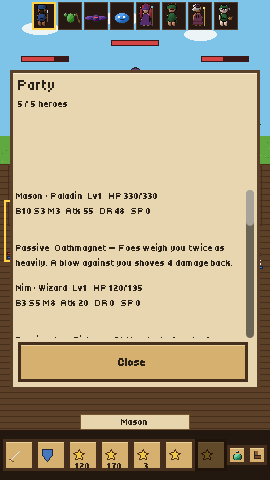
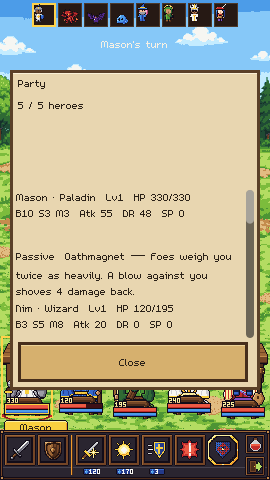
Ship v0.2.0 docs and production-art screenshots.
The README credits m5x7, points at the v0.2.0 APK, and shows the creator, map, and combat card captured from the sprite pack.

diff --git a/README.md b/README.md
@@ -2,7 +2,7 @@
 
 A portrait, tabletop-framed pixel RPG. Phase 0 is a playable phone slice: recruit one to five heroes, walk a vertical region map, and fight at the table.
 
-The native viewport is **270×480**, integer-scaled with nearest-neighbor filtering. Screen positions live in [`data/layout.json`](data/layout.json). A `landscape` block is reserved there so a desktop layout can be added later without rewriting the screens. Sprite paths and doll anchors live in [`scripts/core/sprite_catalog.gd`](scripts/core/sprite_catalog.gd).
+The native viewport is **270×480**, integer-scaled with nearest-neighbor filtering. Screen positions live in [`data/layout.json`](data/layout.json). A `landscape` block is reserved there so a desktop layout can be added later without rewriting the screens. Production sprites live in [`art_source/phase0`](art_source/phase0) and are loaded by [`scripts/core/art_pack.gd`](scripts/core/art_pack.gd). The UI font is [m5x7](https://managore.itch.io/m5x7) by Daniel Linssen, CC0, at size 16 so it sits on the native grid.
 
 Names, dialogue, and art in this repository are original. Combat math and the timing table follow the project's design breakdown.
 
@@ -32,11 +32,13 @@ godot --headless --path . -s res://tests/run_tests.gd
 
 That covers the stat, HP, energy, damage, crit, XP, gold, travel-table, dice, timing, path, portrait-layout, party seats, skill-button states, the arm-then-cast inspect card, cooldown, HP-cost, build-up, mana regen, threat raffle, and on-hit passive examples.
 
-Placeholder art is generated with `python3 tools/gen_art.py`.
+The older files under `art/` are still generated with `python3 tools/gen_art.py` and stay in the repo for the title backdrop and the file checks. The creator, map, and combat screens use the production pack.
 
 ## Screenshots
 
-Native 270×480 captures:
+Native 270×480 captures of the production art:
+
+![Combat, skill card open](docs/screenshots/skills.png)
 
 ![Character creator](docs/screenshots/creator.png)
 
@@ -53,12 +55,12 @@ Native 270×480 captures:
 [`export_presets.cfg`](export_presets.cfg) has a debug Android preset locked to portrait (`screen/orientation=1`) and arm64-v8a, plus a Linux preset. The project setting `display/window/handheld/orientation` is portrait.
 
 ```bash
-godot --headless --export-debug Android build/paladins-0.1.0-debug.apk
+godot --headless --export-debug Android build/paladins-0.2.0-debug.apk
 ```
 
 The export needs the Godot 4.7.2 Android templates (installed into `android/build`, which is gitignored), a `.build_version` of `4.7.2.stable`, Android SDK 36, build-tools 36.1.0, NDK 29.0.14206865, and a JDK. The project enables ETC2/ASTC import, which the Android exporter requires.
 
-The published debug APK is [v0.1.0](https://github.com/thegliffy/paladins-of-pen-and-paper/releases/tag/v0.1.0): [paladins-0.1.0-debug.apk](https://github.com/thegliffy/paladins-of-pen-and-paper/releases/download/v0.1.0/paladins-0.1.0-debug.apk). It is arm64-v8a, portrait, package `com.thegliffy.paladinspenpaper`. That build is the portrait slice from before the eight-class list, passives, the threat raffle, the party of five, and the per-hero action bar. Export again with the command above to include those.
+The published debug APK is [v0.2.0](https://github.com/thegliffy/paladins-of-pen-and-paper/releases/tag/v0.2.0): [paladins-0.2.0-debug.apk](https://github.com/thegliffy/paladins-of-pen-and-paper/releases/download/v0.2.0/paladins-0.2.0-debug.apk). It is arm64-v8a, portrait, package `com.thegliffy.paladinspenpaper`, and includes the eight classes, passives, the threat raffle, the party of five, inspect-to-cast, and the production sprites. v0.1.0 is the earlier portrait slice and is left as-is.
 
 ## Where numbers live
 
@@ -90,13 +92,13 @@ A level 1 hero is `class + persona + race + 2` on Body, Senses, and Mind. HP is 
 - Level 1 monsters use the level-1 HP exception (the formula divided by 3), so the pond fight is short.
 - Skill ranks use the energy-cost formula on **mana** skills only. Cooldowns, free actions, HP costs, and build-up tracks (Rogue combo, Bard tempo, Barbarian rage) do not go through that formula. Damage and healing add a small per-rank term. There is no separate power-curve table yet.
 - Each class has one passive besides its actives. Monsters raffle a living member by threat. Threat is class base plus Body and a little of damage reduction, then taunt and a passive multiplier, and it never drops below 1. Cover halves it. The Wizard regains a share of max energy at the start of each of their turns. Other passives cover crits, healing, initiative, a party damage-reduction aura, health regen, a flat on-hit cut, and damage that rises as health falls. Set `debug` in `data/threat.json` to show each member's threat percent on their chair.
-- Cleric, Rogue, Barbarian, and Druid outfits are placeholder pixels until production sprites arrive.
+- Monster pictures use the pack's eight bodies. Puddleblob is the slime, Thicket Imp the imp, Cinder Mite a goblin, Briar Hound the wolf, Lantern Wisp a mushroom, Marshlurker a skeleton, Cave Howler the bat, and Gravel Brute the golem. Map nodes use the village, windmill, tavern, shrine, cave, and castle pictures.
 - No terrain effects, so the 1.5 s terrain intro does not play.
 - No counter-attack skills. The counter delays are still in the timing constants and the tests.
 - The bard's second skill applies **poison**, not weakness.
 - A wild rest that fails every Senses die is interrupted by an ambush and does not heal first.
 - A wipe revives the party to about a quarter of their health and charges the resurrect cost when the purse can pay, so the slice cannot soft-lock.
 - Audio is generated tones. There is no music.
-- Art is placeholder pixel work. Production sprites can replace the files named in `SpriteCatalog` without moving anchors.
+- Combat, the creator, and the map use the production sprite pack. The title screen still uses the meadow backdrop from `art/`.
 
-A basic attack's waits are 0.25 s wind-up, 0.20 s to the hit, and a 0.50 s HP tween (0.95 s). Punch and the red blink run inside that tween. On the machine that captured the screenshots, one measured attack completed in 818 ms, inside the 0.8–1.2 s gate.
+A basic attack's waits are 0.25 s wind-up, 0.20 s to the hit, and a 0.50 s HP tween (0.95 s). Punch and the red blink run inside that tween. On the machine that captured the screenshots, one measured attack completed in 806 ms, inside the 0.8–1.2 s gate.

diff --git a/docs/CLASSES.md b/docs/CLASSES.md
@@ -2,7 +2,7 @@
 
 Eight classes. A party seats one to five heroes, and each class once. Every class has five skills that nobody else uses: three or four actives and one or two passives. Body, Senses, and Mind from the class add up to 6, then persona, race, and the +2 base still apply.
 
-Actives are the Skill buttons. Passives are always on. They are tagged Passive in the creator and on the party panel, and they never appear in the Skill list.
+Actives are the Skill buttons. Passives are always on. They are tagged Passive in the creator and on the party panel. The action bar still draws each passive in the octagon frame (`skill_slot_passive`); that slot opens the card and does not cast.
 
 Mana skills use the energy formula `round((base + rank × 20) × (1 + reduction))`. The button shows that rank-1 cost. Cooldown skills arm on use and tick down by 1 at the start of each of your later turns, including a turn you spend stunned. A cooldown of 3 is ready again on the turn it reaches 0. An HP cost is payable only when it would leave at least 1 health. Build-up skills add points up to a cap, and the spender refuses the action until you have the cost.
 
@@ -90,3 +90,50 @@ A Paladin with Body 8, no armor, and Oathmagnet is `round((16 + 16) × 2) = 64`.
 | Druid | Sap Pulse | Passive | Turn start | Always on | Self | Regain 5% of max health at the start of each of your turns. |
 
 Spell and heal amounts above are the rank-1 base before Mind, Senses, and extra ranks. Ranks above 1 add the per-rank term in the skill data. Conditions use the same save, timer, and damage rules as the rest of combat: burn ticks health, poison drains energy first, stun skips the turn.
+
+## Skill icons
+
+Icons are `art_source/phase0/ui/skills/<file>.png`. The number is the Art Director's slot, not the order on the bar. Every passive uses the octagon frame even when the painted icon was an active motif.
+
+| Class | Skill | Icon | Notes |
+| --- | --- | --- | --- |
+| Paladin | Oathstrike | paladin_1 | Sword of light |
+| Paladin | Shieldwall | paladin_2 | Shield |
+| Paladin | Hearthmend | paladin_3 | Holy aura |
+| Paladin | Rallying Brand | paladin_4 | Shout |
+| Paladin | Oathmagnet | paladin_5 | Guardian mark. Passive frame |
+| Wizard | Emberburst | wizard_1 | Fireball |
+| Wizard | Frostpin | wizard_2 | Ice |
+| Wizard | Cinder Needle | wizard_3 | Lightning. No needle was drawn |
+| Wizard | Stillglass | wizard_4 | Arcane ward |
+| Wizard | Ley Siphon | wizard_5 | Mana flow. Passive frame |
+| Ranger | Marked Shot | ranger_1 | Arrow |
+| Ranger | Thorn Volley | ranger_2 | Multi-shot |
+| Ranger | Snare Trap | ranger_3 | Trap |
+| Ranger | Quick Draw | ranger_4 | Paw. No quick-draw icon was drawn |
+| Ranger | First Mark | ranger_5 | Keen eye. Passive frame |
+| Bard | Dissonant Chord | bard_1 | Damage note |
+| Bard | Mending Verse | bard_2 | Song |
+| Bard | Hearth Chorus | bard_3 | Lullaby. Passive frame. Every bard icon was painted as an active |
+| Bard | Downbeat | bard_4 | Lute |
+| Bard | Crescendo | bard_5 | War drum |
+| Cleric | Lantern Prayer | cleric_1 | Green cross |
+| Cleric | Warding Light | cleric_2 | Holy cross |
+| Cleric | Purge Hymn | cleric_3 | Cleanse |
+| Cleric | Spark of Mercy | cleric_4 | Hammer. No small-heal icon was drawn |
+| Cleric | Open Hands | cleric_5 | Haloed heart. Passive frame |
+| Rogue | Pocket Cut | rogue_1 | Dagger |
+| Rogue | Venom Needle | rogue_2 | Poison vial |
+| Rogue | Kidney Nick | rogue_3 | Smoke |
+| Rogue | Ledger Strike | rogue_4 | Backstab |
+| Rogue | Keen Nick | rogue_5 | Pickpocket. Passive frame |
+| Barbarian | Bloodswing | barbarian_1 | Axe |
+| Barbarian | Rage Crash | barbarian_2 | Rage flame |
+| Barbarian | Roar | barbarian_3 | Horn |
+| Barbarian | Thick Hide | barbarian_4 | Stomp. No hide icon was drawn |
+| Barbarian | Blood Price | barbarian_5 | Provoke. Passive frame |
+| Druid | Mossknit | druid_1 | Leaf heal |
+| Druid | Briar Seed | druid_2 | Thorns |
+| Druid | Wildshape Guard | druid_3 | Bear |
+| Druid | Spore Puff | druid_4 | Roots |
+| Druid | Sap Pulse | druid_5 | Sprout. Passive frame |

diff --git a/docs/DESIGN.md b/docs/DESIGN.md
@@ -23,6 +23,6 @@ Tanks start high because their `base_threat` is high: Paladin 16, Barbarian 12. 
 
 ## Party row and the action bar
 
-The portrait party is 1 to 5 heroes (`party_min` / `party_max` in `data/layout.json`). Combat seats five centres at x 27, 81, 135, 189, and 243. Seats 2 and 4 sit 4px higher. A shorter party uses that spacing and is centred on x 135. Each chair has a thin HP bar and, under it, a thin MP bar (`chair_bars` in `data/layout.json`). The HP number sits beside the HP bar, in a box that clears the mana bar under it.
+The portrait party is 1 to 5 heroes (`party_min` / `party_max` in `data/layout.json`). Combat seats five centres at x 27, 81, 135, 189, and 243. Seats 2 and 4 sit 4px higher. A shorter party uses that spacing and is centred on x 135. Each chair has a thin HP bar and, under it, a thin MP bar (`chair_bars` in `data/layout.json`). The current HP is drawn in outlined 3×5 digits just above that bar.
 
 The bottom bar is 270×50 at y 430. A name tab above it names the hero whose turn it is. Left to right: Attack, Cover (32px), that hero's five class skills (32px, with a cost badge), then Item and Run (20px). The bar swaps when initiative reaches the next hero. The first tap on Attack, Cover, Item, or a skill arms it and opens an info card above that slot (`skill_card`). A second tap on the same slot uses it when it can be used. A different slot switches the card. A tap elsewhere dismisses it. A passive, a locked skill, a cooling skill, and a skill you cannot pay for show the card and the reason, and they do not cast. Run still leaves on the first tap.
